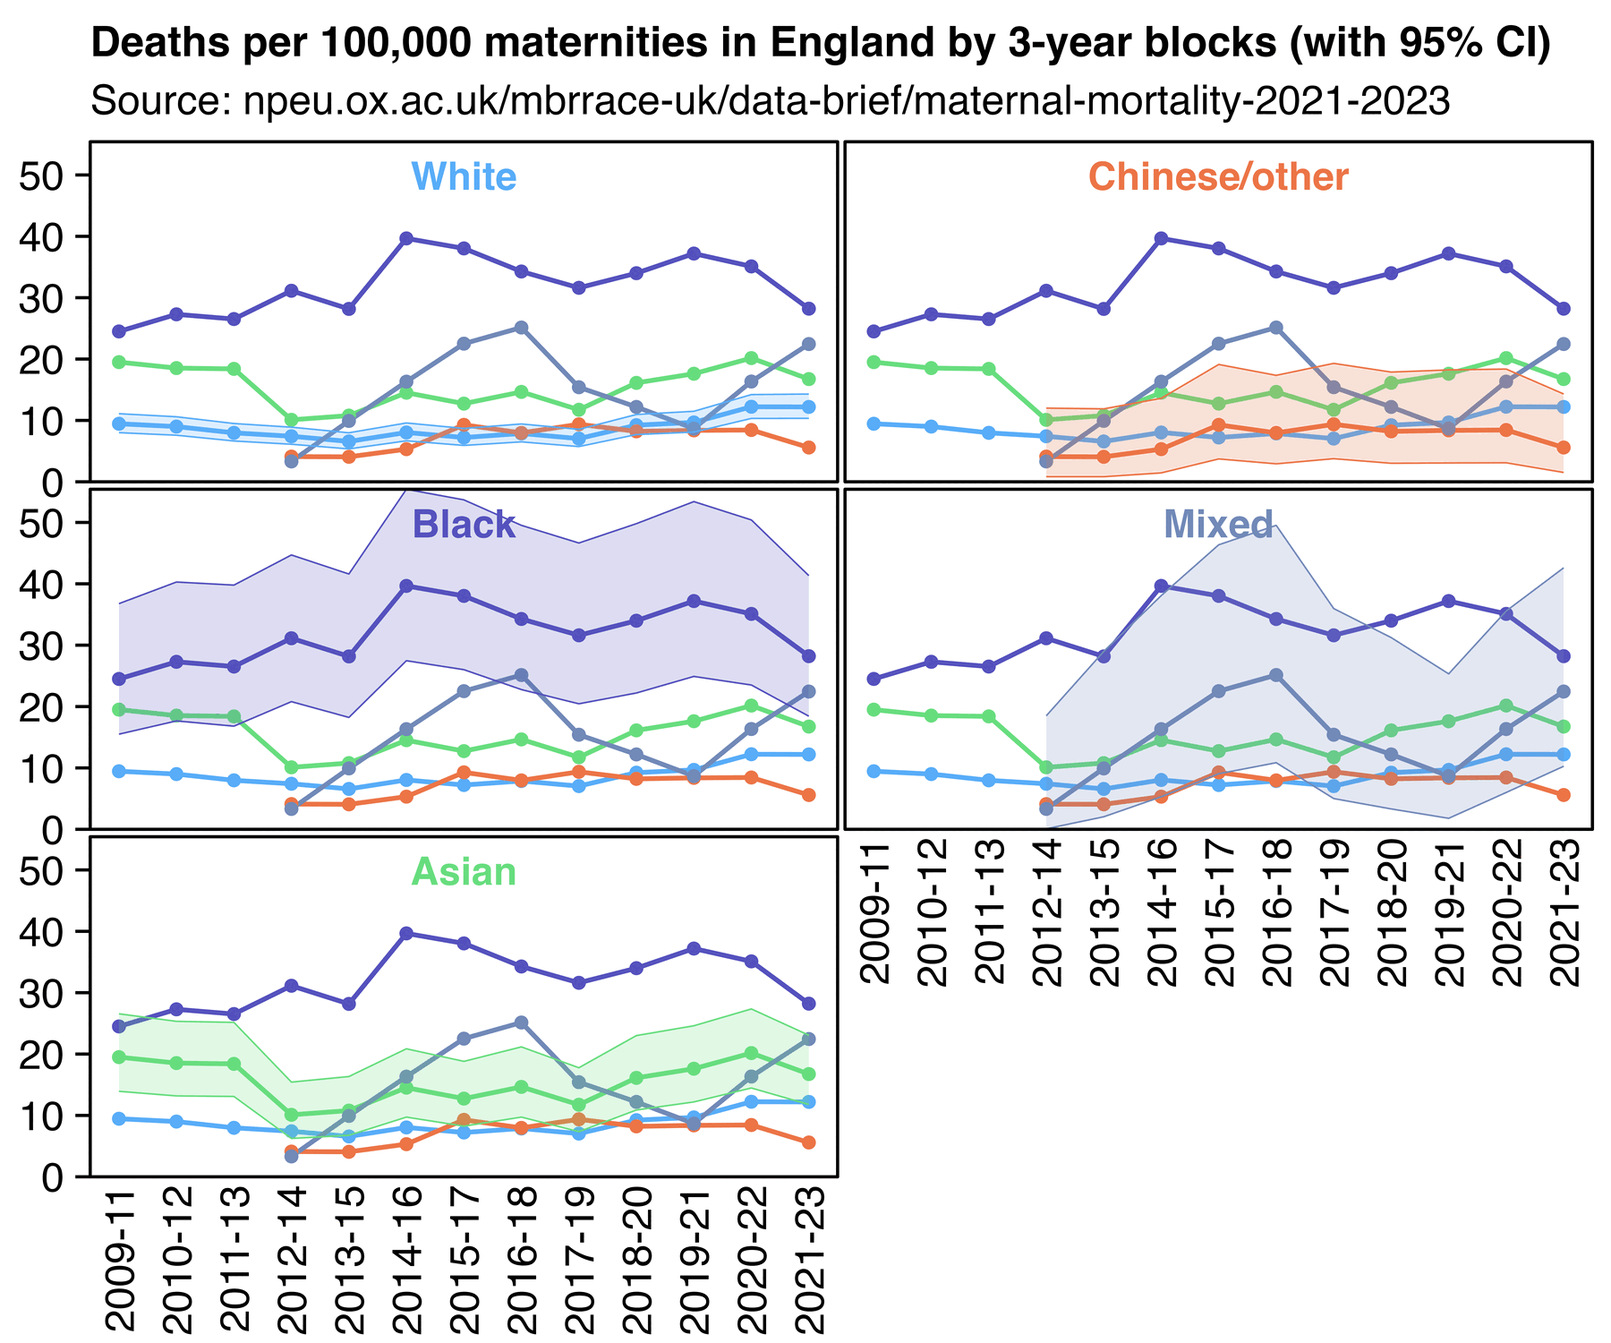
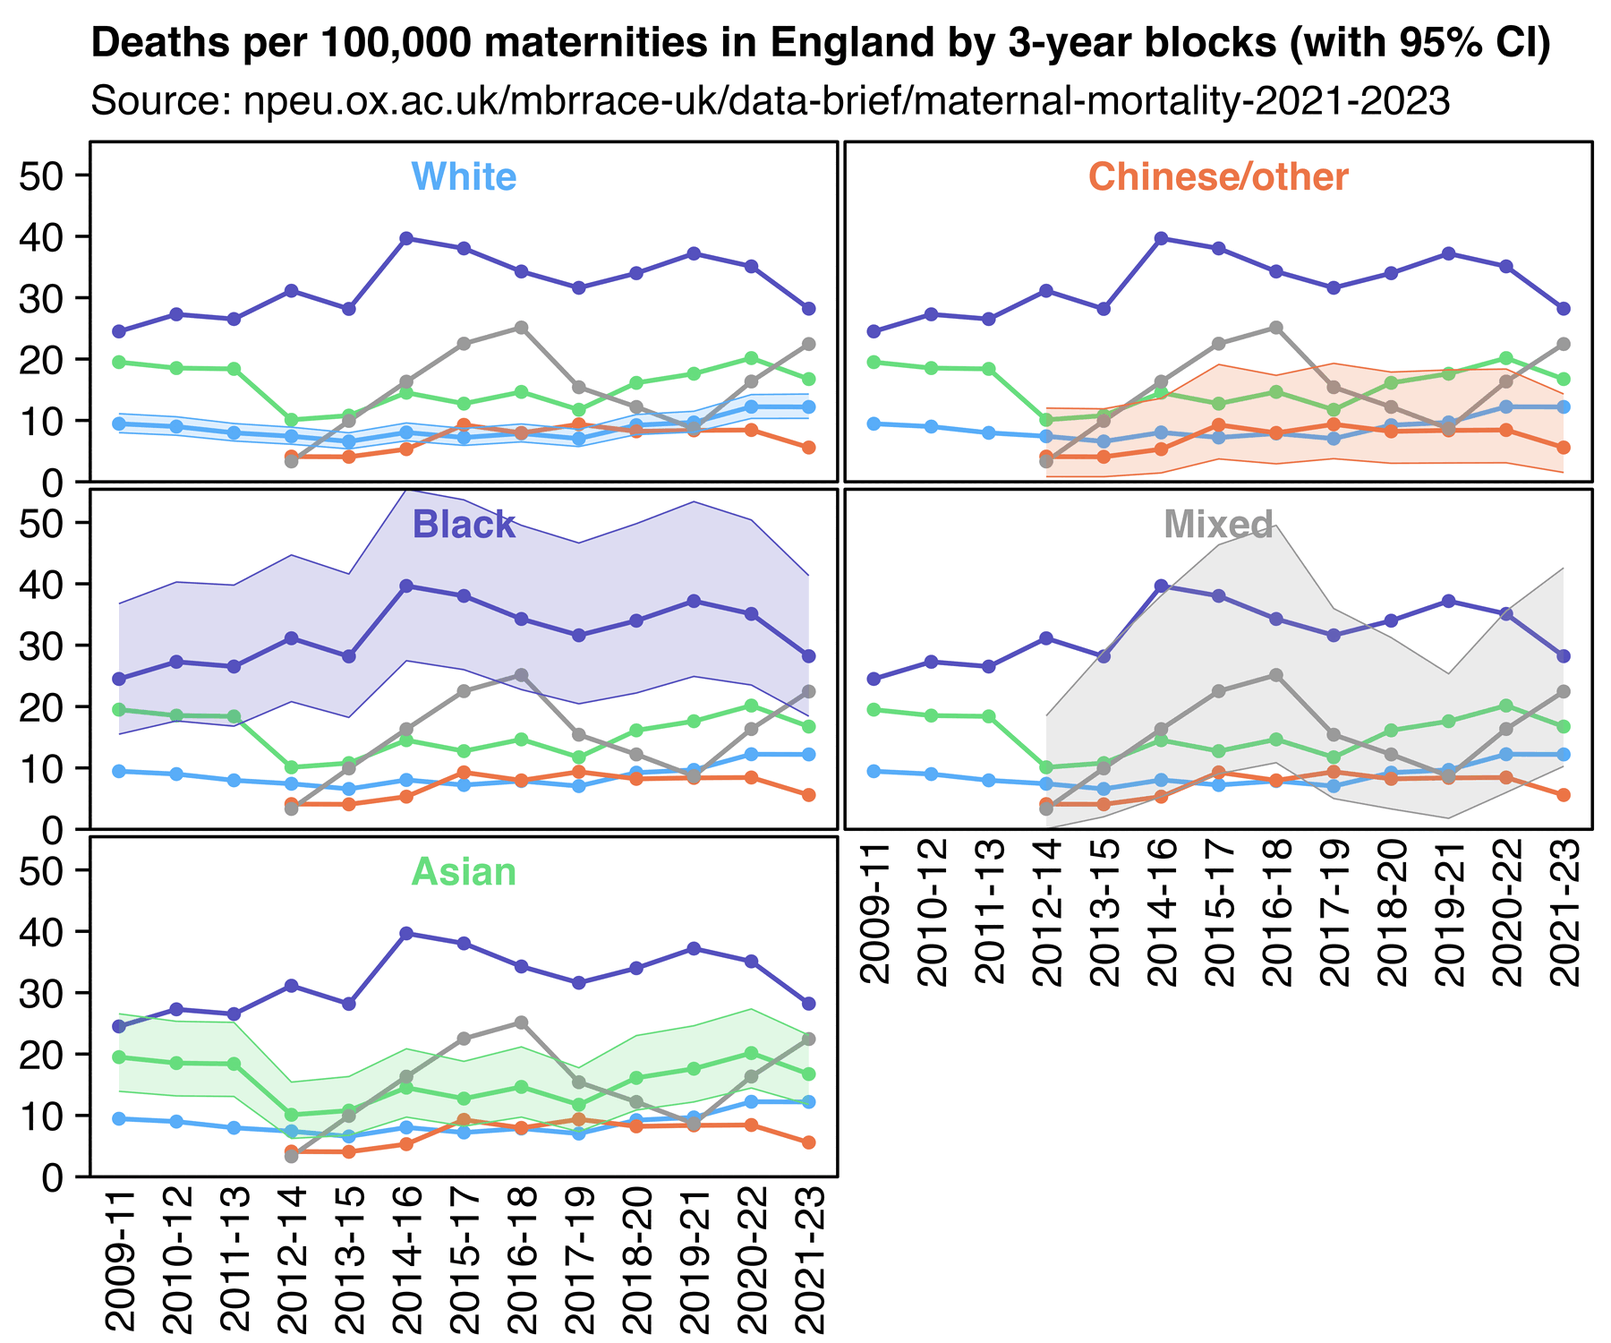
a

diff --git a/turbo.html b/turbo.html
@@ -66,7 +66,7 @@ blockquote blockquote blockquote,blockquote blockquote .quote,blockquote .quote 
 <p>(This article is an unfinished work in progress.)</p>
 <h2 id=Contents><a href=#Contents>Contents</a></h2>
 <ul class=toc>
-<li><a href=#Lack_of_epidemiological_evidence_for_an_increase_in_cancer>Lack of epidemiological evidence for an increase in cancer</a></li>
+<li><a href=#Lack_of_epidemiological_evidence_for_an_increase_in_cancer_since_2020>Lack of epidemiological evidence for an increase in cancer since 2020</a></li>
 <li><a href=#Pathology_conference_held_by_Arne_Burkhardt_and_Reiner_F_llmich>Pathology conference held by Arne Burkhardt and Reiner Füllmich</a></li>
 <li><a href=#BitChute_video_by_WinterRoses_who_is_possibly_Clare_Craig>BitChute video by WinterRoses who is possibly Clare Craig</a></li>
 <li><a href=#BitChute_channel_Red_Pilled>BitChute channel Red Pilled</a></li>
@@ -76,7 +76,7 @@ blockquote blockquote blockquote,blockquote blockquote .quote,blockquote .quote 
 </ul>
 
 <h2>
-<a href=#Lack_of_epidemiological_evidence_for_an_increase_in_cancer id=Lack_of_epidemiological_evidence_for_an_increase_in_cancer>Lack of epidemiological evidence for an increase in cancer</a>
+<a href=#Lack_of_epidemiological_evidence_for_an_increase_in_cancer_since_2020 id=Lack_of_epidemiological_evidence_for_an_increase_in_cancer_since_2020>Lack of epidemiological evidence for an increase in cancer since 2020</a>
 </h2>
 <p>The evidence for turbo cancer seems to be largely anecdotal, but turbo cancer is nowhere to be seen in actual cancer statistics. See here: <a href=rootclaim.html#Undeniable_rise_in_turbo_cancer_4c>rootclaim.html#Undeniable_rise_in_turbo_cancer_4c</a>.</p>
 <h2>
@@ -109,6 +109,10 @@ blockquote blockquote blockquote,blockquote blockquote .quote,blockquote .quote 
 <div class="width5">
 <img src="i/turbo-bobby.png">
 </div>
+<p>Two of the earliest tweets that matched the term <span class="quote">&quot;turbo cancer&quot;</span> were posted by accounts that promote Miles Guo (which are likely bots):</p>
+<div class="width5">
+<img src="i/turbo-miles.png">
+</div>
 <h2>
 <a href=#BitChute_video_by_WinterRoses_who_is_possibly_Clare_Craig id=BitChute_video_by_WinterRoses_who_is_possibly_Clare_Craig>BitChute video by WinterRoses who is possibly Clare Craig</a>
 </h2>
@@ -136,7 +140,7 @@ blockquote blockquote blockquote,blockquote blockquote .quote,blockquote .quote 
 <p>Needless to say the symptoms she described do not resemble the later lore about the clinical presentation of turbo cancer. The story seemed a bit fantastical, including the part about how Sue was neglected by the doctors. And Sue not only got turbo cancer from the vaccine but also Guillain-Barre syndrome and shingles. The story was also highly emotionalized and dramatic, which is typical of fake stories that are designed to appeal to people's emotions.</p>
 <p>The video sounded like she was clearly reading from a script, but there were many parts during the video where she didn't finish a sentence or she had to correct herself, so I don't know if the script was written to resemble natural speech, or if she just narrated some parts of the video freely without following an exact script. At one part of the video she said: <span class="quote">&quot;Sorry, I'm referring to my notes because I'm so emotional that I'll just go off on one if I don't.&quot;</span></p>
 <p>The description of the video said that the video was copied from a BitChute channel called <span class="quote">&quot;WinterRoses&quot;</span>. The original video by WinterRoses was posted on August 28th UTC (which is supposed to have been two days after Sue's death, and which was 23 days before Füllmich's pathology conference). [<a href="https://www.bitchute.com/video/zzLdieJuwu6x/">https://www.bitchute.com/video/zzLdieJuwu6x/</a>] The WinterRoses channel doesn't have any other videos.</p>
-<p>I tried searching for <code>&quot;winterroses&quot; &quot;turbo cancer&quot;</code> and <code>&quot;winterroses&quot; &quot;clare craig&quot;</code> on both Google and Twitter, but there were zero results.</p>
+<p>I tried searching for <code>&quot;winterroses&quot; &quot;turbo cancer&quot;</code> and <code>&quot;winterroses&quot; &quot;clare craig&quot;</code> on both Google and Twitter, but there were zero results. I also didn't find any reference to a friend who died of cancer in Clare Craig's book, Twitter, or Substack.</p>
 <p>Actually the original video by WinterRoses didn't use the term turbo cancer anywhere. But the term was only included in the title of a copy of the video that was posted on September 6th UTC by a channel called <span class="quote">&quot;Red Pilled&quot;</span>. However even September 6th was two weeks before Burkhardt's conference on September 20th UTC (and the earliest vaccine-related use of the term <span class="quote">&quot;turbo cancer&quot;</span> I found on Twitter was on September 21st UTC).</p>
 <h2>
 <a href=#BitChute_channel_Red_Pilled id=BitChute_channel_Red_Pilled>BitChute channel Red Pilled</a>
@@ -186,12 +190,12 @@ blockquote blockquote blockquote,blockquote blockquote .quote,blockquote .quote 
 <p>Another speaker at the AZK conference was Hans Tolzin who spoke about the 2009 swine flu virus. Tolzin was at the time a former Moonie, and in a forum post in 1998 he wrote that he had been a member of the Unification Church for 20 years. Hans Tolzin writes for the magazine of the German Scientologist Michael Kent, whose publishing house distributes Hubbard's books in German. [<a href="https://www.psiram.com/de/index.php/Michael_Hinz">https://www.psiram.com/de/index.php/Michael_Hinz</a>] Tolzin and Kent are currently working on a film about German New Medicine, where Kent is the producer and writer of the film and Tolzin is responsible for fundraising, distribution, and PR. [<a href="https://besser-leben-film.de/das_neue_filmprojekt">https://besser-leben-film.de/das_neue_filmprojekt</a>] Their team previously published a film about how the H5N1 virus was fake. [<a href="https://besser-leben-film.de/virus">https://besser-leben-film.de/virus</a>] Kent sells a book about how viruses don't exist, which consists of 32 articles that have been published in his magazine over the years and that were written by people like himself and Hans Tolzin. [<a href="https://www.mwbl.de/artikel/virenmaerchen-chronologie-der-fake-seuchen">https://www.mwbl.de/artikel/virenmaerchen-chronologie-der-fake-seuchen</a>] Tolzin has also ran an anti-vaccination website called impfkritik.de for over 20 years. In 2020 he issued a reward of 100,000 euros for someone who could prove the existence of SARS-CoV-2. [<a href="https://impfkritik.de/upload/Wurzel-Coronawette.pdf">https://impfkritik.de/upload/Wurzel-Coronawette.pdf</a>]</p>
 <p>Ivo Sasek has also founded a conspiracy video website called KLA TV. [<a href="https://www.kla.tv">https://www.kla.tv</a>] In 2023 when I first did research on KLA TV, the featured video on the front page of their website was a film about electroshock therapy by CCHR. [<a href="https://www.kla.tv/en">https://www.kla.tv/en</a>] In 2025 the featured video discussed an article by Epoch Times about aluminum in vaccines.</p>
 <p>In 2020 Ivo Sasek is supposed to have gotten hacked by Anonymous who released documents about his connection to Scientology: <span class="quote">&quot;Jürg Stettler is a leading member of Scientology in Switzerland, the boss. He has been involved with KlaTV/OCG for a long time and gave at least one talk at the anti-censorship conference. Anonymous activists have now managed to obtain email messages that demonstrate an even closer connection between the two sects and a mutual desire for cooperation.&quot;</span> [<a href="https://rentry.co/225699-ocgscientology">https://rentry.co/225699-ocgscientology</a>]</p>
-<p>In 2010 Alexander Benesch from InfoKrieg was also a speaker at a conference in the US that was organized by Rima Laibow and Albert Stubblebine. [<a href="http://web.archive.org/web/20100117133225/https://www.prweb.com/releases/2009/12/prweb3387444.htm">http://web.archive.org/web/20100117133225/https://www.prweb.com/releases/2009/12/prweb3387444.htm</a>] One of the headline speakers at the conference was Kevin Trudeau, who wrote that he has studied various religions but that <span class="quote">&quot;I happen to think for myself, personally, that Scientology auditing, as well as the courses that they offer, have been the most quantifiable in terms of the benefits that I received.&quot;</span> [<a href="http://www.thesmokinggun.com/file/kevin-trudeau-memos?page=11">http://www.thesmokinggun.com/file/kevin-trudeau-memos?page=11</a>] Another article about Trudeau said: <span class="quote">&quot;Kevin promised to get a divorce, and he and Dorow tied the knot in November 2007, having dated for six years. She says their prenup obligated her to reach a certain level in Scientology, which Trudeau has dabbled in over the years.&quot;</span> [<a href="https://www.businessinsider.com/kevin-trudeau-interview-2014-12">https://www.businessinsider.com/kevin-trudeau-interview-2014-12</a>]</p>
+<p>In 2010 Alexander Benesch from InfoKrieg was also a speaker at a conference in the US that was organized by Rima Laibow and Albert Stubblebine. [<a href="http://web.archive.org/web/20100117133225/https://www.prweb.com/releases/2009/12/prweb3387444.htm">http://web.archive.org/web/20100117133225/https://www.prweb.com/releases/2009/12/prweb3387444.htm</a>] Stubblebine was the commanding general of the U.S. Army Intelligence and Security Command, and he was also the head of the US army's remote viewing program (but many of the stars of the remote viewing program were Scientologists, including Ingo Swann, Russel Targ, Hal Puthoff, Pat Price, and Edwin May). [<a href="https://books.google.com/books?id=8lgHtauc5R4C&pg=PA113">https://books.google.com/books?id=8lgHtauc5R4C&amp;pg=PA113</a>] One of the headline speakers at Laibow and Stubblebine's conference was Kevin Trudeau, who wrote that he has studied various religions but that <span class="quote">&quot;I happen to think for myself, personally, that Scientology auditing, as well as the courses that they offer, have been the most quantifiable in terms of the benefits that I received.&quot;</span> [<a href="http://www.thesmokinggun.com/file/kevin-trudeau-memos?page=11">http://www.thesmokinggun.com/file/kevin-trudeau-memos?page=11</a>] Another article about Trudeau said: <span class="quote">&quot;Kevin promised to get a divorce, and he and Dorow tied the knot in November 2007, having dated for six years. She says their prenup obligated her to reach a certain level in Scientology, which Trudeau has dabbled in over the years.&quot;</span> [<a href="https://www.businessinsider.com/kevin-trudeau-interview-2014-12">https://www.businessinsider.com/kevin-trudeau-interview-2014-12</a>]</p>
 <h2>
 <a href=#Side_note_Is_the_Fenton_circle_controlled_opposition id=Side_note_Is_the_Fenton_circle_controlled_opposition>Side note: Is the Fenton circle controlled opposition?</a>
 </h2>
 <p>Currently the earliest vaccine-related use of the term <span class="quote">&quot;turbo cancer&quot;</span> I have found was in the title of an audio-only BitChute video that may have been narrated by Clare Craig. If the video was actually narrated by her then I think it greatly increases the likelihood that she is controlled opposition, because the story in the video seemed completely fake.</p>
-<p>I have also been suspicious of her coauthors including Norman Fenton and Jonathan Engler, so I have copied some of my notes about them here even though it's not directly related to the topic of turbo cancer.</p>
+<p>I have also been suspicious of her coauthors including Norman Fenton and Jonathan Engler, so I copied some of my notes about them here even though it's not directly related to the topic of turbo cancer.</p>
 <p>Fenton wrote: <span class="quote">&quot;Between 2016 and 2022, I attended many research seminars in the UK on using AI and Machine Learning to <span class="quote">'combat misinformation'</span>. The example of Hunter Biden's laptop was invariably used as a key <span class="quote">'learning'</span> example so algorithms classified it as <span class="quote">'misinformation'</span>, <span class="quote">'Russian propaganda'</span>, <span class="quote">'Trump lies'</span>. Moreover, anybody pushing that story was classified as a <span class="quote">'spreader of misinformation'</span>, <span class="quote">'conspiracy theorist'</span> etc. In fact, most of the common <span class="quote">'training'</span> examples that were used - many of which were based on things Trump supposedly said, as well as about Covid - turned out to be true. So an enormous amount of research was (and is still) spent on developing <span class="quote">'clever'</span> algorithms which simply censor the truth online.&quot;</span> [<a href="https://x.com/profnfenton/status/1829137988355281114">https://x.com/profnfenton/status/1829137988355281114</a>] The seminars he described sound like they might have been organized by some organization connected to intelligence. Did he also attend seminars on how to produce misinformation in order to keep inconvenient information buried?</p>
 <p>Fenton is a professor emeritus at the Queen Mary University of London, which is located about 3 km away from the City of London and about 10 km away from the headquarters of MI6. It's not very damning information by itself, but the London area is the UK equivalent of the DC area where the headquarters of various intelligence agencies are located, so people who live in the London area might be more likely to have intelligence connections than people who live in more remote regions of the UK. Clare Craig and Jonathan Engler are also based in the London area according to their LinkedIn profiles. (Another suspicious thing in alt media is when there are groups of people who publish similar content on the Internet but who also live close by in real life, like how George Webb and John O'Loughlin both live in the Washington DC area so they have done a lot of videos together in person, but Webb has many intelligence ties and O'Loughlin is the son of a high-level FBI agent.)</p>
 <p>In 2015 BBC released a mainstream documentary about climate change which was presented by Norman Fenton, Hannah Fry, and some third guy: [<a href="https://www.bbc.co.uk/programmes/p02jsdrk">https://www.bbc.co.uk/programmes/p02jsdrk</a>]</p>
@@ -209,11 +213,11 @@ blockquote blockquote blockquote,blockquote blockquote .quote,blockquote .quote 
 <img src="i/turbo-fenton-fry.png">
 </div>
 <p>It's also suspicious of how many of Fenton and Neil's coauthors are Jews. In one their papers the authors consisted of Martin Neil, Norman Fenton, Joel Smalley, Clare Craig, Josh Guetzkow, Scott McLachlan, Jonathan Engler, and Jessica Rose. [<a href="https://www.researchgate.net/publication/356756711_Latest_statistics_on_England_mortality_data_suggest_systematic_mis-categorisation_of_vaccine_status_and_uncertain_effectiveness_of_Covid-19_vaccination">https://www.researchgate.net/publication/356756711_Latest_statistics_on_England_mortality_data_suggest_systematic_mis-categorisation_of_vaccine_status_and_uncertain_effectiveness_of_Covid-19_vaccination</a>] Normal Fenton was born Norman Finkelstein and he is the son of a Polish Jew. [<a href="https://www.normanfenton.com/post/israel-and-the-freedom-movement-a-personal-statement-by-norman-fenton">https://www.normanfenton.com/post/israel-and-the-freedom-movement-a-personal-statement-by-norman-fenton</a>] Jonathan Engler is also a Jew. [<a href="https://x.com/jengleruk/status/1432008026106515461">https://x.com/jengleruk/status/1432008026106515461</a>] Guetzkow is a Jew who lives in Israel. Jessica Rose lives in Israel even though I'm not 100% sure if she's a Jew. I'm not sure about Joel Smalley either, but the subdomain of his blog is metatron and his username at Gettr is themetatron, but Metatron is an angel that appears in the Talmud but not the Old Testament. Joel Smalley is also very dark-skinned for an ethnic Brit, and he quoted a Hebrew tweet and posted a tweet in Hebrew. [<a href="https://x.com/RealJoelSmalley/status/1409922949369503753">https://x.com/RealJoelSmalley/status/1409922949369503753</a>, <a href="https://x.com/RealJoelSmalley/status/1427577495365246990">https://x.com/RealJoelSmalley/status/1427577495365246990</a>]</p>
-<p>Jonathan Engler's son Harrison Engler is the <span class="quote">&quot;Mazkir (National Director) of Habonim Dror, the leading left-wing Jewish Zionist youth movement&quot;</span>. [<a href="https://blogs.timesofisrael.com/im-anti-occupation-because-im-a-zionist-not-despite-it/">https://blogs.timesofisrael.com/im-anti-occupation-because-im-a-zionist-not-despite-it/</a>] Jonathan Engler said he was Harrison's <span class="quote">&quot;old man&quot;</span> on LinkedIn. [<a href="https://www.linkedin.com/posts/harrison-engler-35a724115_looking-forward-to-starting-at-field-court-activity-6945329109203873792-lt9m/">https://www.linkedin.com/posts/harrison-engler-35a724115_looking-forward-to-starting-at-field-court-activity-6945329109203873792-lt9m/</a>]</p>
+<p>Jonathan Engler's son Harrison Engler is the <span class="quote">&quot;Mazkir (National Director) of Habonim Dror, the leading left-wing Jewish Zionist youth movement&quot;</span>. [<a href="https://blogs.timesofisrael.com/im-anti-occupation-because-im-a-zionist-not-despite-it/">https://blogs.timesofisrael.com/im-anti-occupation-because-im-a-zionist-not-despite-it/</a>, <a href="https://www.linkedin.com/posts/harrison-engler-35a724115_looking-forward-to-starting-at-field-court-activity-6945329109203873792-lt9m/">https://www.linkedin.com/posts/harrison-engler-35a724115_looking-forward-to-starting-at-field-court-activity-6945329109203873792-lt9m/</a>]</p>
 <h2>
 <a href=#German_cancer_pathologist_Ute_Kr_ger id=German_cancer_pathologist_Ute_Kr_ger>German cancer pathologist Ute Krüger</a>
 </h2>
-<p>At Odysee the oldest result for the search term <span class="quote">&quot;turbo cancer&quot;</span> is a video of Füllmich's pathology conference posted by KLA TV in October 2021. The second-oldest video is a presentation by Sucharit Bhakdi from Füllmich's second pathology conference which was held in December 2021. The next five results are videos of the German pathologist Ute Krüger who lives in Sweden: [ <a href="https://odysee.com/$/search?q=%22turbo%20cancer%22">https://odysee.com/$/search?q=%22turbo%20cancer%22</a>]</p>
+<p>At Odysee the oldest result for the search term <span class="quote">&quot;turbo cancer&quot;</span> is a video of Füllmich's pathology conference posted by KLA TV in October 2021. The second-oldest video is a presentation by Sucharit Bhakdi from Füllmich's second pathology conference which was held in December 2021. The next five results are videos of the German pathologist Ute Krüger who lives in Sweden: [<a href="https://odysee.com/$/search?q=%22turbo%20cancer%22">https://odysee.com/$/search?q=%22turbo%20cancer%22</a>]</p>
 <div class="width5">
 <img src="i/turbo-odysee.png">
 </div>

diff --git a/uk.html b/uk.html
@@ -2224,7 +2224,7 @@ print(o[1:10],r=F)
 Show code
 </button><pre>library(data.table);library(ggplot2);library(readxl)
 
-t=setDT(read_excel(&quot;c/Data for Figure 3 2025.xlsx&quot;,skip=1))
+t=setDT(read_excel(&quot;http://sars2.net/f/Data_for_Figure_3_2025.xlsx&quot;,skip=1))
 k=seq(2,14,3);k2=k+1;k3=k+2
 
 race=c(&quot;White&quot;,&quot;Black&quot;,&quot;Asian&quot;,&quot;Chinese/other&quot;,&quot;Mixed&quot;)
@@ -2232,7 +2232,7 @@ p=t[,.(year=Years,race=factor(rep(race,each=.N),race),rate=unlist(t[,..k]),low=u
 p[,x:=as.integer(factor(year))]
 xstart=1;xend=max(p$x);xbreak=xstart:xend
 
-color=c(&quot;#58ADF8&quot;,&quot;#5450BE&quot;,&quot;#67DD7E&quot;,&quot;#EC7446&quot;,&quot;#7189B8&quot;)
+color=c(&quot;#58ADF8&quot;,&quot;#5450BE&quot;,&quot;#67DD7E&quot;,&quot;#EC7446&quot;,&quot;gray60&quot;)
 
 p=p[,.(year,race,rate,low,high,x,race2=rep(unique(race),each=.N))]
 
@@ -2265,9 +2265,9 @@ theme(axis.text=element_text(size=11,color=&quot;black&quot;),
   strip.background=element_blank(),
   strip.text=element_blank())
 ggsave(&quot;1.png&quot;,width=6,height=5,dpi=300*4)
-system(&quot;convert 1.png -resize 25% -colors 256 1.png&quot;)
-</pre>
+system(&quot;convert 1.png -resize 25% -colors 256 1.png&quot;)</pre>
 </div>
+<p>Norman Fenton and Martin Neil published a Substack post about the same data where they downloaded the data and made their own plot that only compared whites and blacks. But they didn't include confidence intervals in their plot, and they didn't even explain that the decrease in mortality rate in blacks might have been due to the wide confidence intervals. [<a href="https://wherearethenumbers.substack.com/p/why-did-maternal-mortality-in-white">https://wherearethenumbers.substack.com/p/why-did-maternal-mortality-in-white</a>]</p>
 <p>If the US if you look at the increase in pregnancy-related deaths between 2020 and 2021, it's low Asians who had a high percentage of vaccinated people. But it's high in Native Americans, Hispanics, and blacks, who had a lower percentage of vaccinated people:</p>
 <div class="width6">
 <img src="i/statistic-maternal-2.png">
